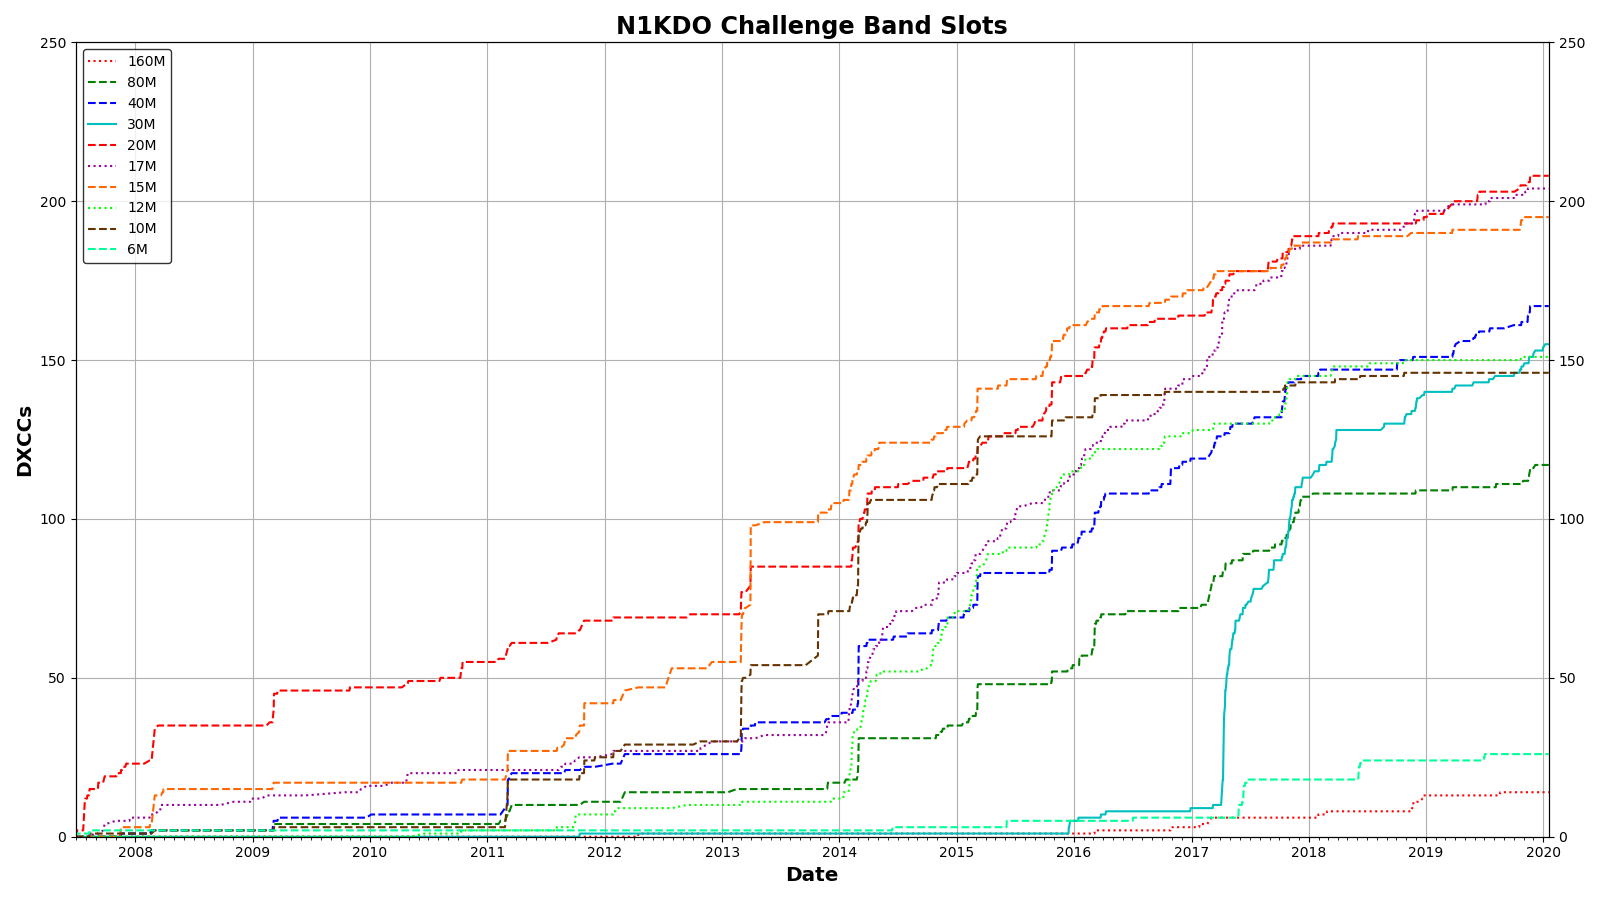
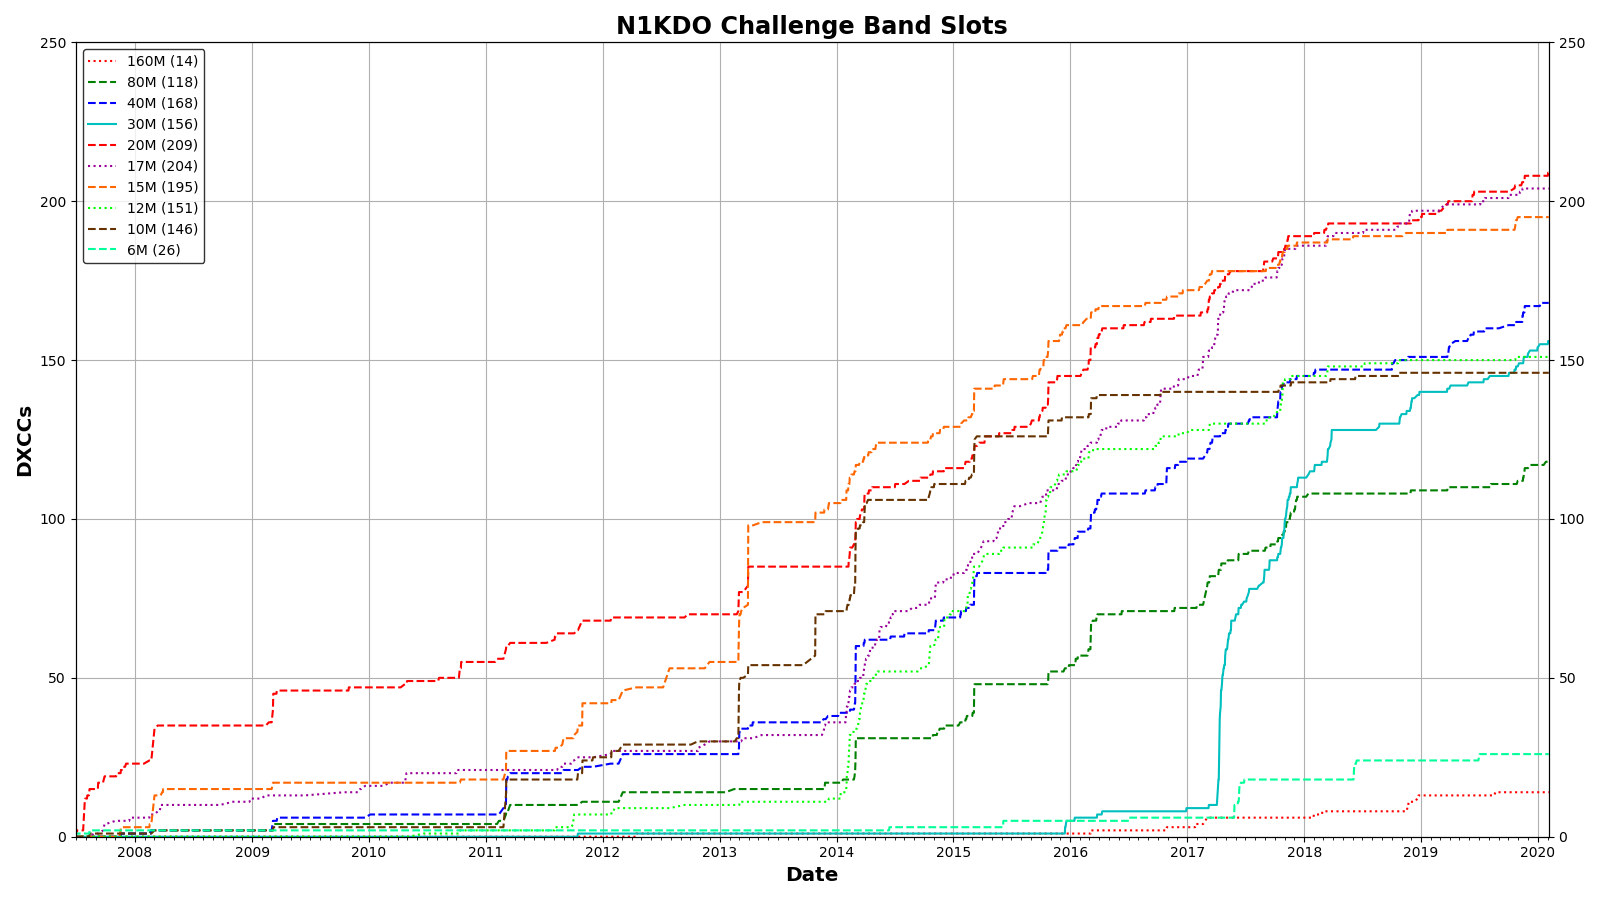
added band counts to legend on challenge_bands_by_date chart.

diff --git a/qso_charts.py b/qso_charts.py
@@ -472,7 +472,7 @@ def plot_challenge_bands_by_date(date_records, title, filename=None, start_date=
         ax.plot_date(dates, data[i + 1], color=colors[i],
                      linestyle=line_styles[i],
                      marker='None',
-                     mew=0, markersize=5, label=challenge_bands[i])
+                     mew=0, markersize=5, label='{:s} ({:d})'.format(challenge_bands[i], totals[i]))
     ax.grid(True)
 
     ax.tick_params(axis='y', colors=FG, which='both', direction='out', right=False)
